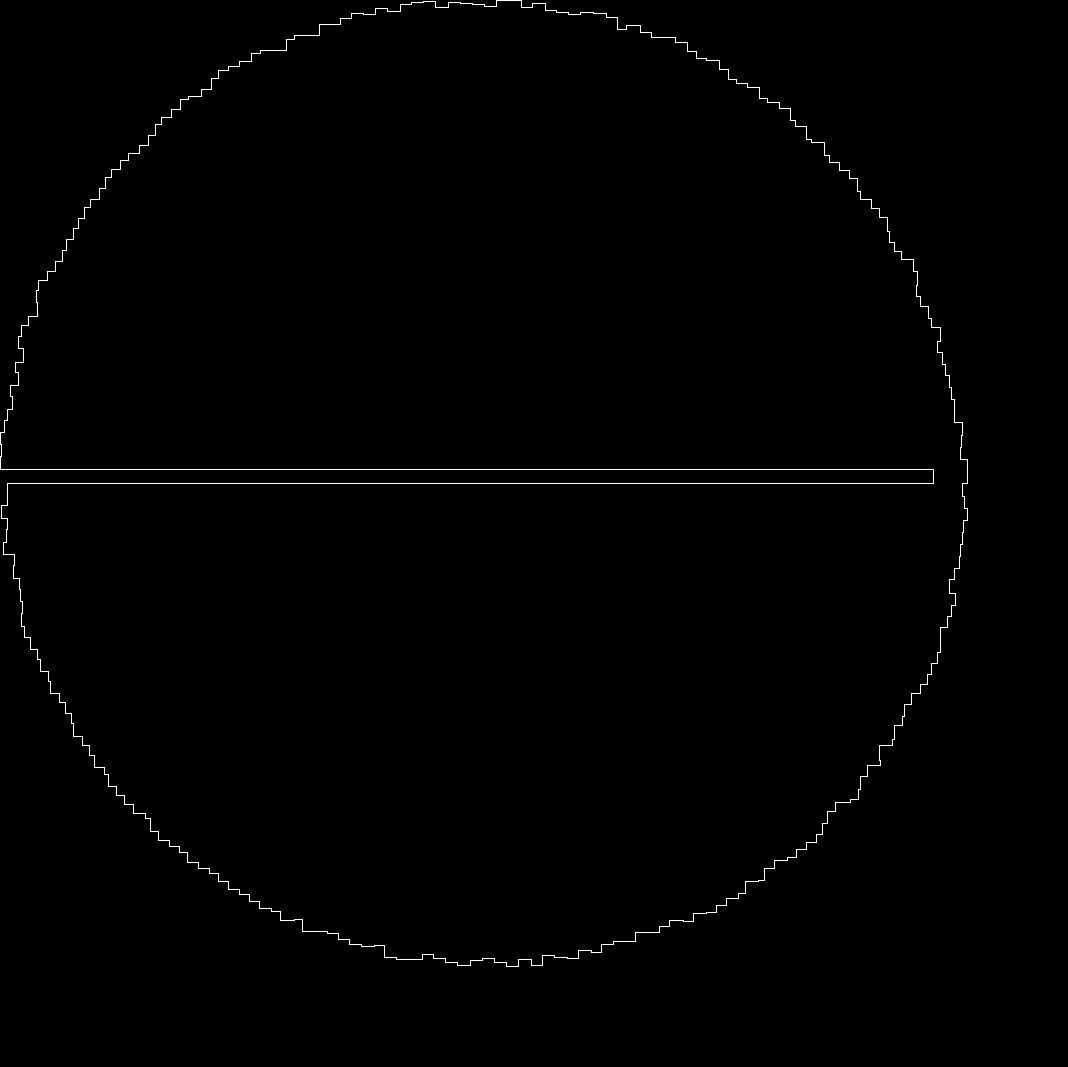
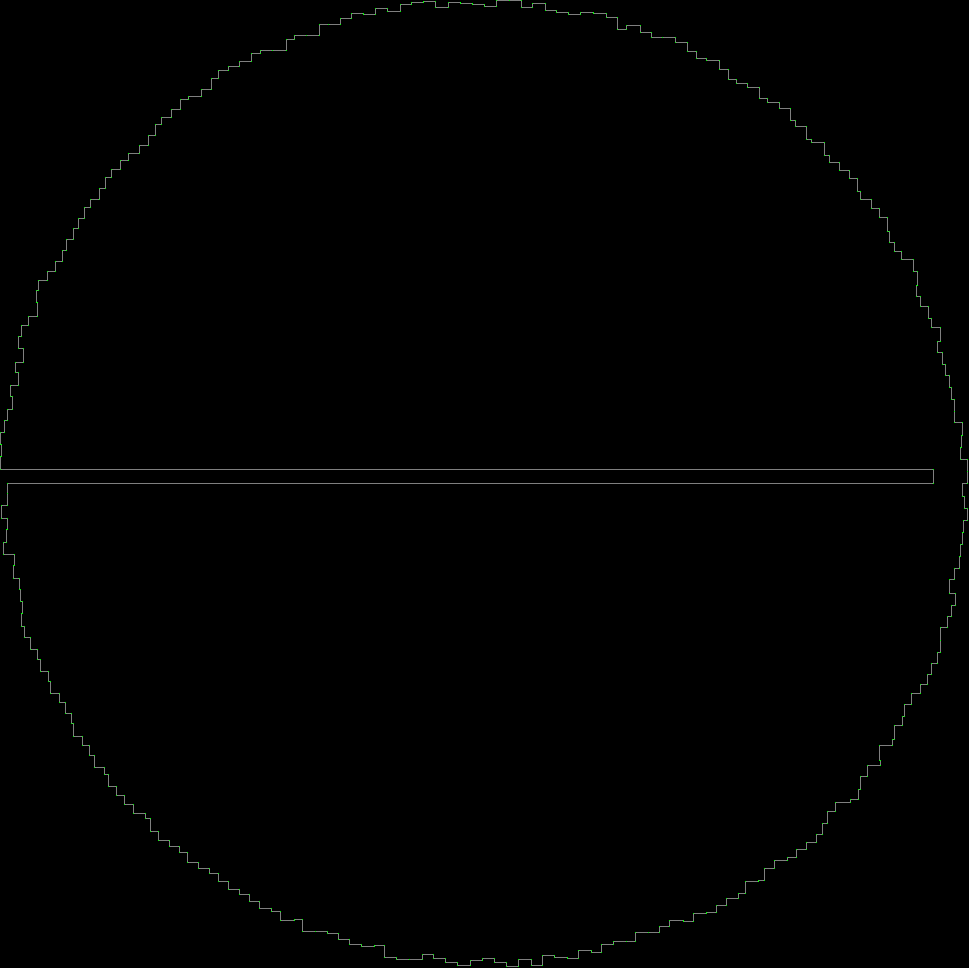
Add visualization

diff --git a/2025/day09/vis.py b/2025/day09/vis.py
@@ -1,0 +1,30 @@
+import sys
+from itertools import pairwise
+
+from PIL import Image, ImageDraw
+
+lines = sys.stdin.read().strip().split('\n')
+corners = [tuple(map(int, line.split(','))) for line in lines]
+
+xmin = min(x for x, y in corners)
+xmax = max(x for x, y in corners)
+ymin = min(y for x, y in corners)
+ymax = max(y for x, y in corners)
+
+downscale = 100
+
+im = Image.new(
+    'RGB', (
+        (xmax - xmin + downscale) // downscale + 1,
+        (ymax - ymin + downscale) // downscale + 1,
+    )
+)
+draw = ImageDraw.Draw(im)
+
+for p, q in pairwise(corners + corners[:1]):
+    pp = ((p[0] - xmin) // downscale, (p[1] - ymin) // downscale)
+    qq = ((q[0] - xmin) // downscale, (q[1] - ymin) // downscale)
+    draw.line((*pp, *qq), fill=(127, ) * 3)
+    draw.line((*pp, *pp), fill=(0, 255, 0))
+
+im.save('plot.png')
